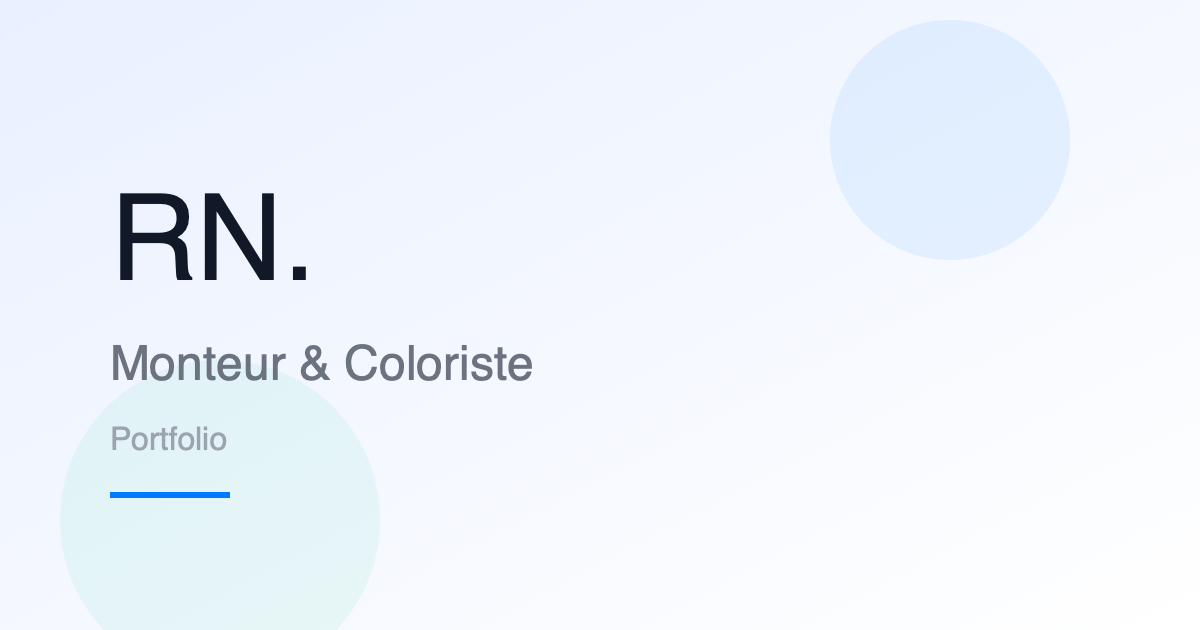
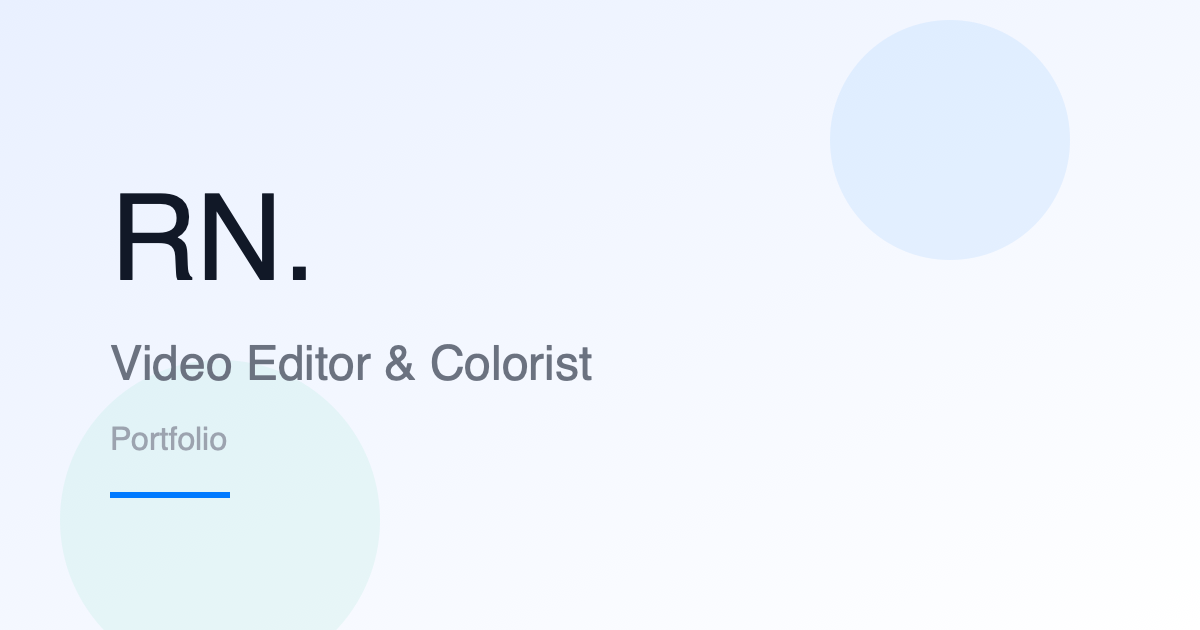
turn the content in english

Changed region(s): [[0.0925, 0.5429, 0.4933, 0.6032]]

diff --git a/index.html b/index.html
@@ -3,9 +3,9 @@
   <head>
     <meta charset="UTF-8" />
     <meta name="viewport" content="width=device-width, initial-scale=1.0" />
-    <title>Ronel Guidigan | Monteur</title>
-    <meta property="og:title" content="Ronel Guidigan | Monteur" />
-    <meta property="og:description" content="Portfolio de montage vidéo et color grading." />
+    <title>Ronel Guidigan | Video Editor</title>
+    <meta property="og:title" content="Ronel Guidigan | Video Editor" />
+    <meta property="og:description" content="Portfolio of video editing and color grading." />
     <meta property="og:type" content="website" />
     <meta property="og:image" content="assets/images/og-image.png" />
     <meta property="og:image:width" content="1200" />
@@ -26,10 +26,9 @@
         <a class="logo" href="#">RN<span>.</span></a>
         
         <div class="nav-links">
-          <a href="#about">À Propos</a>
-          <a href="#method">Méthode</a>
-          <a href="#portfolio">Projets</a>
-          
+          <a href="#about">About</a>
+          <a href="#method">Method</a>
+          <a href="#portfolio">Projects</a>
         </div>
         <div class="nav-cta">
           <a class="cta" href="#contact">Contact</a>
@@ -41,19 +40,20 @@
         </div>
       </nav>
       <div class="mobile-menu" id="mobileMenu">
-        <button class="mobile-menu-close" type="button" aria-label="Fermer le menu">
+        <button class="mobile-menu-close" type="button" aria-label="Close menu">
           <svg viewBox="0 0 24 24" aria-hidden="true">
             <path d="M6 6l12 12M18 6l-12 12" fill="none" stroke="currentColor" stroke-width="2" stroke-linecap="round" />
           </svg>
         </button>
-        <a href="#about">À Propos</a>
-        <a href="#method">Méthode</a>
-        <a href="#portfolio">Projets</a>
+        <a href="#about">About</a>
+        <a href="#method">Method</a>
+        <a href="#portfolio">Projects</a>
         <a href="#contact">Contact</a>
         <div class="mobile-menu-footer">
-          <p>Suivez mon travail</p>
+          <p>Follow my work</p>
           <div class="mobile-menu-links">
             <a href="https://www.tiktok.com/@actuotaku" target="_blank" rel="noopener noreferrer">TikTok</a>
+            <a href="https://www.instagram.com/ronelguidigan" target="_blank" rel="noopener noreferrer">Instagram</a>
             <a href="https://wa.me/message/CQCD7SYIKXORG1" target="_blank" rel="noopener noreferrer">WhatsApp</a>
           </div>
         </div>
@@ -70,27 +70,27 @@
         <div class="hero-content">
           <div class="hero-title" id="heroTitle">
             <h1>
-              L'ÉMOTION<br />
+              EMOTION<br />
               <span class="gradient-wrap">
-                PAR LE
-                <span class="gradient-text">PAR LE</span>
+                THROUGH
+                <span class="gradient-text">THROUGH</span>
               </span><br />
-              MONTAGE.
+              EDITING.
             </h1>
           </div>
           <div class="hero-copy" id="heroCopy">
             <p>
-              Spécialiste du montage émotif, je transforme vos images en expériences mémorables
-              via la maîtrise technique de DaVinci Resolve.
+              Specialist in emotional editing, I turn your footage into memorable experiences
+              through technical mastery of DaVinci Resolve.
             </p>
             <div class="hero-cta">
-              <a class="scroll-circle" href="#portfolio" aria-label="Voir le portfolio">
+              <a class="scroll-circle" href="#portfolio" aria-label="View the portfolio">
                 <svg xmlns="http://www.w3.org/2000/svg" viewBox="0 0 24 24" fill="none" stroke="currentColor" stroke-width="1.5" stroke-linecap="round" stroke-linejoin="round">
                   <line x1="12" y1="5" x2="12" y2="19"></line>
                   <polyline points="19 12 12 19 5 12"></polyline>
                 </svg>
               </a>
-              <span class="discover">Découvrir</span>
+              <span class="discover">Discover</span>
             </div>
           </div>
         </div>
@@ -109,15 +109,14 @@
         </svg>
         <div class="about-grid">
           <div class="about-text">
-            <h2>Le parcours d'un autodidacte passionné.</h2>
+            <h2>The journey of a passionate self-taught editor.</h2>
             <p>
-              Je suis Ronel Guidigan, monteur autodidacte, mon parcours est guidé par la curiosité
-              et l'exigence.
+              I am Ronel Guidigan, a self-taught editor driven by curiosity and high standards.
             </p>
             <p>
-              Formé via les certifications officielles DaVinci Resolve, je transforme chaque défi
-              technique en opportunité d'apprentissage. Mon approche est simple : apprendre,
-              maîtriser, et appliquer avec précision.
+              Trained through official DaVinci Resolve certifications, I turn every technical
+              challenge into a learning opportunity. My approach is simple: learn, master, and
+              apply with precision.
             </p>
           </div>
           <div class="about-image">
@@ -126,7 +125,7 @@
             </div>
             <div class="stat-card">
               <div class="stat-number">50+</div>
-              <div class="stat-label">Projets Livrés</div>
+              <div class="stat-label">Projects Delivered</div>
             </div>
           </div>
         </div>
@@ -134,25 +133,33 @@
 
       <section class="identity" id="method">
         <div class="identity-inner">
-          <p class="eyebrow">Mon Identité</p>
-          <h2>Le rythme <span>&</span> l'émotion.</h2>
+          <p class="eyebrow">My Identity</p>
+          <h2>Rhythm <span>&</span> emotion.</h2>
           <p class="identity-copy">
-            Qu'il s'agisse de documentaires narratifs touchants ou de publicités ultra-rythmées, mon
-            approche reste la même : une rigueur professionnelle absolue au service de votre message.
-            Je ne me contente pas de couper des clips, je compose une symphonie visuelle.
+            Whether it's moving narrative documentaries or high-energy ads, my approach stays the
+            same: absolute professional rigor in service of your message. I don't just cut clips;
+            I compose a visual symphony.
           </p>
           <div class="identity-grid">
             <div>
-              <h3>Montage Narratif</h3>
-              <p>Structure du récit, gestion des silences et arc émotionnel pour captiver l'audience.</p>
+              <h3>Narrative Editing</h3>
+              <p>Story structure, pacing, and emotional arc to captivate the audience.</p>
             </div>
             <div>
               <h3>Color Grading</h3>
-              <p>Correction colorimétrique précise et "look design" via les nodes de DaVinci Resolve.</p>
+              <p>Precise color correction and look design using DaVinci Resolve nodes.</p>
             </div>
             <div>
               <h3>Sound Design</h3>
-              <p>Intégration sonore immersive pour renforcer l'impact psychologique de chaque image.</p>
+              <p>Immersive sound integration to enhance the impact of every image.</p>
+            </div>
+          </div>
+          <div class="tools">
+            <span class="tools-label">Tools</span>
+            <div class="tools-list">
+              <span>Adobe Premiere Pro</span>
+              <span>CapCut</span>
+              <span>DaVinci Resolve</span>
             </div>
           </div>
         </div>
@@ -161,7 +168,7 @@
       <section class="portfolio" id="portfolio">
         <div class="portfolio-header">
           <p class="eyebrow muted">Portfolio</p>
-          <h2>Réalisations Récentes.</h2>
+          <h2>Recent Work.</h2>
         </div>
         <div class="portfolio-grid">
           <article class="portfolio-card">
@@ -174,8 +181,8 @@
               <span class="ui-caption">1080x1920 .MOV</span>
               <div class="video-frame">
                 <div class="tiktok-placeholder" data-video-id="7370754964118932742" data-video-url="https://www.tiktok.com/@actuotaku/video/7370754964118932742">
-                  <p>Chargement du reel TikTok…</p>
-                  <button type="button">Lire sur TikTok</button>
+                  <p>Loading TikTok reel…</p>
+                  <button type="button">Play on TikTok</button>
                 </div>
               </div>
             </div>
@@ -190,8 +197,8 @@
               <span class="ui-caption">1080x1920 .MOV</span>
               <div class="video-frame">
                 <div class="tiktok-placeholder" data-video-id="7575337530069929236" data-video-url="https://www.tiktok.com/@actuotaku/video/7575337530069929236">
-                  <p>Chargement du reel TikTok…</p>
-                  <button type="button">Lire sur TikTok</button>
+                  <p>Loading TikTok reel…</p>
+                  <button type="button">Play on TikTok</button>
                 </div>
               </div>
             </div>
@@ -206,8 +213,8 @@
               <span class="ui-caption">1080x1920 .MOV</span>
               <div class="video-frame">
                 <div class="tiktok-placeholder" data-video-id="7451647210120383750" data-video-url="https://www.tiktok.com/@actuotaku/video/7451647210120383750">
-                  <p>Chargement du reel TikTok…</p>
-                  <button type="button">Lire sur TikTok</button>
+                  <p>Loading TikTok reel…</p>
+                  <button type="button">Play on TikTok</button>
                 </div>
               </div>
             </div>
@@ -222,8 +229,8 @@
               <span class="ui-caption">1080x1920 .MOV</span>
               <div class="video-frame">
                 <div class="tiktok-placeholder" data-video-id="7396366767590870278" data-video-url="https://www.tiktok.com/@actuotaku/video/7396366767590870278">
-                  <p>Chargement du reel TikTok…</p>
-                  <button type="button">Lire sur TikTok</button>
+                  <p>Loading TikTok reel…</p>
+                  <button type="button">Play on TikTok</button>
                 </div>
               </div>
             </div>
@@ -238,8 +245,8 @@
               <span class="ui-caption">1080x1920 .MOV</span>
               <div class="video-frame">
                 <div class="tiktok-placeholder" data-video-id="7357778296962108677" data-video-url="https://www.tiktok.com/@actuotaku/video/7357778296962108677">
-                  <p>Chargement du reel TikTok…</p>
-                  <button type="button">Lire sur TikTok</button>
+                  <p>Loading TikTok reel…</p>
+                  <button type="button">Play on TikTok</button>
                 </div>
               </div>
             </div>
@@ -247,20 +254,20 @@
         </div>
         <div class="portfolio-cta">
           <div class="divider"></div>
-          <p>Ma filmographie complète est disponible sur mes réseaux.</p>
+          <p>My full filmography is available on my socials.</p>
           <a class="cta-link" href="https://www.tiktok.com/@ronel.guidigan" target="_blank" rel="noopener noreferrer">
             <svg viewBox="0 0 24 24" aria-hidden="true">
               <path d="M12.525.02c1.31-.02 2.61-.01 3.91-.02.08 1.53.63 3.09 1.75 4.17 1.12 1.11 2.7 1.62 4.24 1.79v4.03c-1.44-.05-2.89-.35-4.2-.97-.57-.26-1.1-.59-1.62-.93-.01 2.92.01 5.84-.02 8.75-.08 1.4-.54 2.79-1.35 3.94-1.31 1.92-3.58 3.17-5.91 3.21-1.43.08-2.86-.31-4.08-1.03-2.02-1.19-3.44-3.37-3.65-5.71-.02-.5-.03-1-.01-1.49.18-1.9 1.12-3.72 2.58-4.96 1.66-1.44 3.98-2.13 6.15-1.72.02 1.48-.04 2.96-.04 4.44-.9-.32-1.98-.23-2.81.31-.75.42-1.24 1.25-1.33 2.1-.1.7.1 1.41.53 1.98.5.73 1.34 1.19 2.23 1.25 1.16.03 2.29-.53 2.87-1.52.2-.31.33-.66.38-1.02.06-2.11.02-4.22.02-6.33V0h.01z" />
             </svg>
-            Explorer tout le travail
+            Explore all work
           </a>
         </div>
       </section>
 
       <section class="contact" id="contact">
         <div class="contact-inner">
-          <h2>Donnons vie à votre vision<span>.</span></h2>
-          <p>Contactez-moi pour collaborer sur votre prochain projet mémorable.</p>
+          <h2>Let's bring your vision to life<span>.</span></h2>
+          <p>Contact me to collaborate on your next memorable project.</p>
           <div class="contact-actions">
             <a class="contact-btn primary" href="mailto:ronelguidigan@gmail.com">
               <svg xmlns="http://www.w3.org/2000/svg" viewBox="0 0 24 24" fill="none" stroke="currentColor" stroke-width="2" stroke-linecap="round" stroke-linejoin="round">
@@ -282,7 +289,7 @@
 
     <footer class="site-footer">
       <div class="footer-inner">
-        <span id="footerYear">© 2025 RN. Vidéo. Tous droits réservés.</span>
+        <span id="footerYear">© 2025 RN. Video. All rights reserved.</span>
         <span class="divider">|</span>
         <span>
           Designed by

diff --git a/assets/style/style.css b/assets/style/style.css
@@ -594,6 +594,40 @@ main {
   font-weight: 300;
 }
 
+.tools {
+  margin-top: 48px;
+  display: flex;
+  flex-direction: column;
+  align-items: center;
+  gap: 16px;
+}
+
+.tools-label {
+  font-size: 10px;
+  text-transform: uppercase;
+  letter-spacing: 0.4em;
+  color: #9ca3af;
+  font-weight: 700;
+}
+
+.tools-list {
+  display: flex;
+  flex-wrap: wrap;
+  justify-content: center;
+  gap: 12px;
+}
+
+.tools-list span {
+  padding: 8px 16px;
+  border-radius: 999px;
+  border: 1px solid rgba(255, 255, 255, 0.2);
+  font-size: 12px;
+  font-weight: 500;
+  color: #e5e7eb;
+  background: rgba(255, 255, 255, 0.04);
+  letter-spacing: 0.05em;
+}
+
 .portfolio {
   padding: 128px 24px;
   background: #fff;

diff --git a/assets/script/script.js b/assets/script/script.js
@@ -49,7 +49,7 @@ const loadTikTokEmbed = (container) => {
       }
     })
     .catch(() => {
-      container.innerHTML = `<a target="_blank" rel="noopener noreferrer" href="${videoUrl}">Ouvrir sur TikTok</a>`;
+      container.innerHTML = `<a target="_blank" rel="noopener noreferrer" href="${videoUrl}">Open on TikTok</a>`;
     });
 };
 
@@ -116,7 +116,7 @@ window.addEventListener('resize', () => {
 
 if (footerYear) {
   const year = new Date().getFullYear();
-  footerYear.textContent = `© ${year} RN. Vidéo. Tous droits réservés.`;
+  footerYear.textContent = `© ${year} RN. Video. All rights reserved.`;
 }
 
 updateNavbar();
